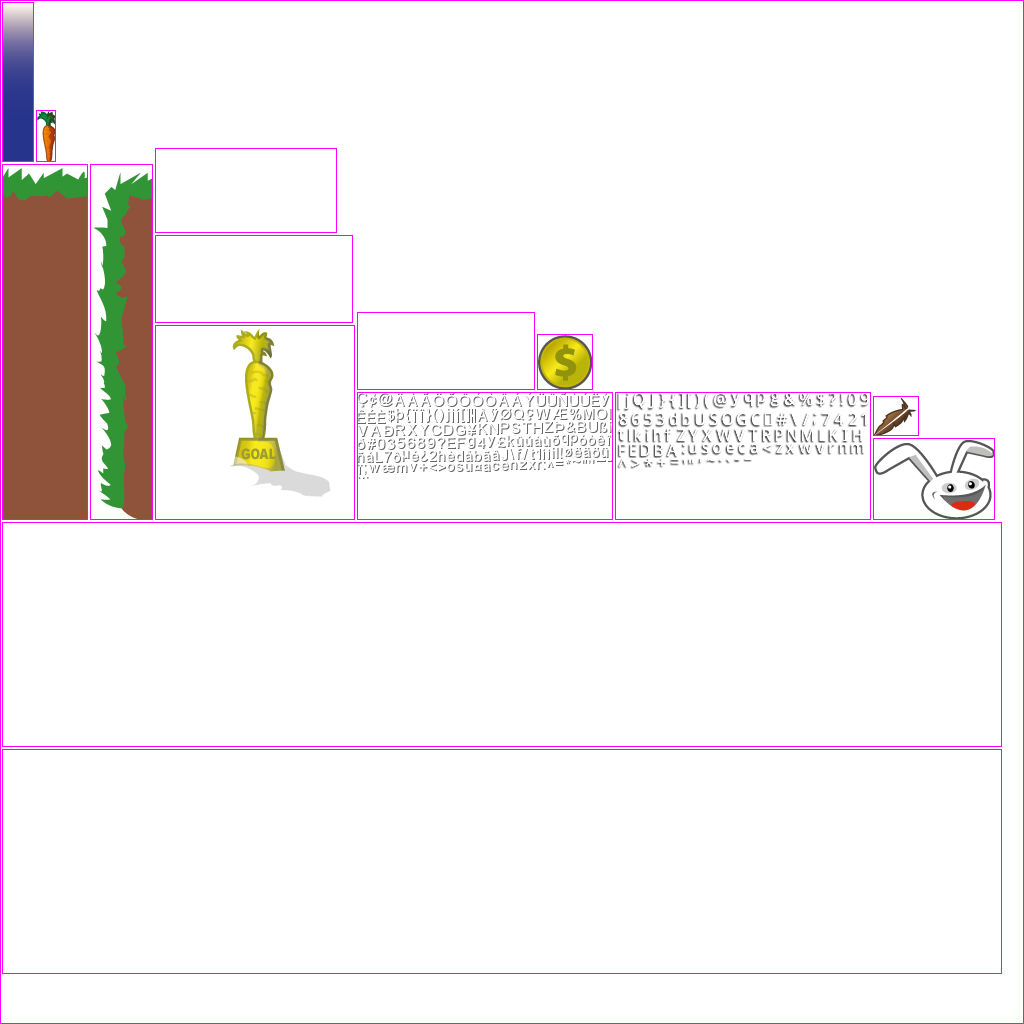
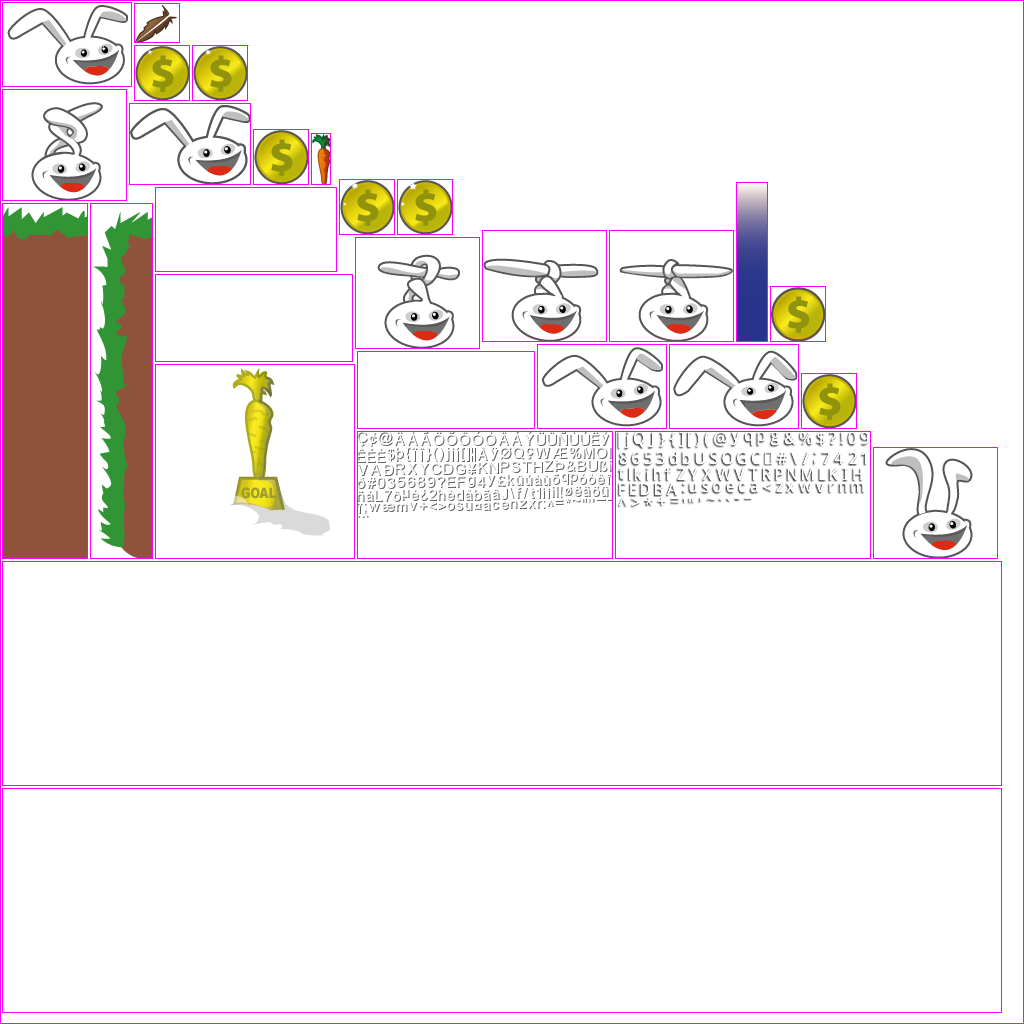
Assignment 12 - Part A
(Classes changed: AbstractGameObject, Assets, BunnyHead, GoldCoin, MenuScreen)
(Classes added: all of the image files for the animation)
(Classes removed: none)

Changed region(s): [[0.0, 0.0, 0.9688, 0.5625]]

diff --git a/core/src/screens/MenuScreen.java b/core/src/screens/MenuScreen.java
@@ -5,14 +5,18 @@ package screens;
  */
 import objects.Assets;
 import objects.AudioManager;
+import static com.badlogic.gdx.scenes.scene2d.actions.Actions.*;
 
 import com.badlogic.gdx.Game;
 import com.badlogic.gdx.Gdx;
 import com.badlogic.gdx.graphics.Color;
 import com.badlogic.gdx.graphics.GL20;
 import com.badlogic.gdx.graphics.g2d.TextureAtlas;
+import com.badlogic.gdx.math.Interpolation;
 import com.badlogic.gdx.scenes.scene2d.Actor;
 import com.badlogic.gdx.scenes.scene2d.Stage;
+import com.badlogic.gdx.scenes.scene2d.Touchable;
+import com.badlogic.gdx.scenes.scene2d.actions.SequenceAction;
 import com.badlogic.gdx.scenes.scene2d.ui.Button;
 import com.badlogic.gdx.scenes.scene2d.ui.CheckBox;
 import com.badlogic.gdx.scenes.scene2d.ui.Image;
@@ -127,11 +131,24 @@ public class MenuScreen extends AbstractGameScreen
 		// + Coins
 		imgCoins = new Image(skinCanyonBunny, "coins");
 		layer.addActor(imgCoins);
-		imgCoins.setPosition(135, 80);
+		imgCoins.setOrigin(imgCoins.getWidth() / 2, imgCoins.getHeight() / 2);
+		imgCoins.addAction(sequence(
+				moveTo(135, -20),
+				scaleTo(0, 0),
+				fadeOut(0),
+				delay(2.5f),
+				parallel(moveBy(0, 100, 0.5f, Interpolation.swingOut),
+						scaleTo(1.0f, 1.0f, 0.25f, Interpolation.linear),
+						alpha(1.0f, 0.5f))));
 		// + Bunny
 		imgBunny = new Image(skinCanyonBunny, "bunny");
 		layer.addActor(imgBunny);
-		imgBunny.setPosition(355, 40);
+		imgBunny.addAction(sequence(
+				moveTo(655, 510),
+				delay(4.0f),
+				moveBy(-70, -100, 0.5f, Interpolation.fade),
+				moveBy(-100, -50, 0.5f, Interpolation.fade),
+				moveBy(-150, -300, 1.0f, Interpolation.elasticIn)));
 		return layer;
 	}
 	
@@ -342,7 +359,7 @@ public class MenuScreen extends AbstractGameScreen
 		//Make options window slightly transparent
 		winOptions.setColor(1, 1, 1, 0.8f);
 		//Hide options window by default
-		winOptions.setVisible(false);
+		showOptionsWindow(false, false);
 		if(debugEnabled)
 		{
 			winOptions.debug();
@@ -368,9 +385,8 @@ public class MenuScreen extends AbstractGameScreen
 	private void onOptionsClicked()
 	{
 		loadSettings();
-		btnMenuPlay.setVisible(false);
-		btnMenuOptions.setVisible(false);
-		winOptions.setVisible(true);
+		showMenuButtons(false);
+		showOptionsWindow(true, true);
 	}
 	
 	/**
@@ -429,10 +445,58 @@ public class MenuScreen extends AbstractGameScreen
 	 */
 	private void onCancelClicked()
 	{
-		btnMenuPlay.setVisible(true);
-		btnMenuOptions.setVisible(true);
-		winOptions.setVisible(false);
+		showMenuButtons(true);
+		showOptionsWindow(false, true);
 		AudioManager.instance.onSettingsUpdated();
+	}
+	
+	/**
+	 * adds animations to the menu buttons.
+	 * @param visible
+	 */
+	private void showMenuButtons(boolean visible)
+	{
+		float moveDuration = 1.0f;
+		Interpolation moveEasing = Interpolation.swing;
+		float delayOptionsButton = 0.25f;
+		float moveX = 300 * (visible ? -1 : 1);
+		float moveY = 0 * (visible ? -1 : 1);
+		final Touchable touchEnabled = visible ? Touchable.enabled : Touchable.disabled;
+		btnMenuPlay.addAction(
+				moveBy(moveX, moveY, moveDuration, moveEasing));
+		btnMenuOptions.addAction(sequence(
+				delay(delayOptionsButton),
+				moveBy(moveX, moveY, moveDuration, moveEasing)));
+		
+		SequenceAction seq = sequence();
+		if(visible)
+		{
+			seq.addAction(delay(delayOptionsButton + moveDuration));
+			seq.addAction(run(new Runnable()
+			{
+				public void run()
+				{
+					btnMenuPlay.setTouchable(touchEnabled);
+					btnMenuOptions.setTouchable(touchEnabled);
+				}
+			}));
+		}
+		stage.addAction(seq);
+	}
+	
+	/**
+	 * add animation to the options window
+	 * @param visible
+	 * @param animated
+	 */
+	private void showOptionsWindow(boolean visible, boolean animated)
+	{
+		float alphaTo = visible ? 0.8f : 0.0f;
+		float duration = animated ? 1.0f : 0.0f;
+		Touchable touchEnabled = visible ? Touchable.enabled : Touchable.disabled;
+		winOptions.addAction(sequence(
+				touchable(touchEnabled),
+				alpha(alphaTo, duration)));
 	}
 	
 	/**

diff --git a/core/src/objects/BunnyHead.java b/core/src/objects/BunnyHead.java
@@ -4,6 +4,7 @@ import screens.GamePreferences;
 import screens.CharacterSkin;
 
 import com.badlogic.gdx.Gdx;
+import com.badlogic.gdx.graphics.g2d.Animation;
 import com.badlogic.gdx.graphics.g2d.ParticleEffect;
 import com.badlogic.gdx.graphics.g2d.SpriteBatch;
 import com.badlogic.gdx.graphics.g2d.TextureRegion;
@@ -24,6 +25,11 @@ public class BunnyHead extends AbstractGameObject
 	private final float JUMP_TIME_MAX = 0.3f;
 	private final float JUMP_TIME_MIN = 0.1f;
 	private final float JUMP_TIME_OFFSET_FLYING = JUMP_TIME_MAX - 0.018f;
+	
+	private Animation animNormal;
+	private Animation animCopterTransform;
+	private Animation animCopterTransformBack;
+	private Animation animCopterRotate;
 	
 	public enum VIEW_DIRECTION
 	{
@@ -62,7 +68,12 @@ public class BunnyHead extends AbstractGameObject
 	public void init()
 	{
 		dimension.set(1, 1);
-		regHead = Assets.instance.bunny.head;
+		
+		animNormal = Assets.instance.bunny.animNormal;
+		animCopterTransform = Assets.instance.bunny.animCopterTransform;
+		animCopterTransformBack = Assets.instance.bunny.animCopterTransformBack;
+		animCopterRotate = Assets.instance.bunny.animCopterRotate;
+		setAnimation(animNormal);
 		
 		//Center image on game object
 		origin.set(dimension.x / 2, dimension.y / 2);
@@ -166,6 +177,14 @@ public class BunnyHead extends AbstractGameObject
 		
 		if(timeLeftFeatherPowerup > 0)
 		{
+			if(animation == animCopterTransformBack)
+			{
+				//Restart "Transform" animation if another feather power-up
+				//was picked up during "TransformBack" animation. Otherwise,
+				//the "TransformBack" animation would be stuck while the 
+				//power-up is still active.
+				setAnimation(animCopterTransform);
+			}
 			timeLeftFeatherPowerup -= deltaTime;
 		}
 		
@@ -174,9 +193,41 @@ public class BunnyHead extends AbstractGameObject
 			//disable power-up
 			timeLeftFeatherPowerup = 0;
 			setFeatherPowerup(false);
+			setAnimation(animCopterTransformBack);
 		}
-		
 		dustParticles.update(deltaTime);
+		//Change animation state according to feather power-up
+		if(hasFeatherPowerup)
+		{
+			if(animation == animNormal)
+			{
+				setAnimation(animCopterTransform);
+			}
+			else if(animation == animCopterTransform)
+			{
+				if(animation.isAnimationFinished(stateTime))
+				{
+					setAnimation(animCopterRotate);
+				}
+			}
+		}
+		else
+		{
+			if(animation == animCopterRotate)
+			{
+				if(animation.isAnimationFinished(stateTime))
+				{
+					setAnimation(animCopterTransformBack);
+				}
+				else if(animation == animCopterTransformBack)
+				{
+					if(animation.isAnimationFinished(stateTime))
+					{
+						setAnimation(animNormal);
+					}
+				}
+			}
+		}
 	}
 	
 	/**
@@ -234,16 +285,18 @@ public class BunnyHead extends AbstractGameObject
 		//Apply Skin Color
 		batch.setColor(CharacterSkin.values()[GamePreferences.instance.charSkin].getColor());
 		
-		//Set special color when game object has a feather power-up
-		if(hasFeatherPowerup)
+		float dimCorrectionX = 0;
+		float dimCorrectionY = 0;
+		if(animation != animNormal)
 		{
-			batch.setColor(1.0f, 0.8f, 0.0f, 1.0f);
+			dimCorrectionX = 0.05f;
+			dimCorrectionY = 0.2f;
 		}
 		
 		//Draw image
-		reg = regHead;
+		reg = animation.getKeyFrame(stateTime, true);
 		batch.draw(reg.getTexture(), position.x, position.y, origin.x, origin.y,
-				dimension.x, dimension.y, scale.x, scale.y, rotation, reg.getRegionX(),
+				dimension.x + dimCorrectionX, dimension.y + dimCorrectionY, scale.x, scale.y, rotation, reg.getRegionX(),
 				reg.getRegionY(), reg.getRegionWidth(), reg.getRegionHeight(),
 				viewDirection == VIEW_DIRECTION.LEFT, false);
 		

diff --git a/core/src/objects/Assets.java b/core/src/objects/Assets.java
@@ -8,9 +8,11 @@ import com.badlogic.gdx.audio.Music;
 import com.badlogic.gdx.audio.Sound;
 import com.badlogic.gdx.graphics.Texture;
 import com.badlogic.gdx.graphics.Texture.TextureFilter;
+import com.badlogic.gdx.graphics.g2d.Animation;
 import com.badlogic.gdx.graphics.g2d.BitmapFont;
 import com.badlogic.gdx.graphics.g2d.TextureAtlas;
 import com.badlogic.gdx.graphics.g2d.TextureAtlas.AtlasRegion;
+import com.badlogic.gdx.utils.Array;
 import com.badlogic.gdx.utils.Disposable;
 import com.lobiancogdx.game.Constants;
 
@@ -121,10 +123,34 @@ public class Assets implements Disposable, AssetErrorListener
 	public class AssetBunny
 	{
 		public final AtlasRegion head;
+		public Animation animNormal;
+		public Animation animCopterTransform;
+		public Animation animCopterTransformBack;
+		public Animation animCopterRotate;
 		
 		public AssetBunny(TextureAtlas atlas)
 		{
 			head = atlas.findRegion("bunny_head");
+			
+			Array<AtlasRegion> regions = null;
+			AtlasRegion region = null;
+			//Animation: Bunny Normal
+			regions = atlas.findRegions("anim_bunny_normal");
+			animNormal = new Animation(1.0f / 10.0f, regions, Animation.PlayMode.LOOP_PINGPONG);
+			
+			//Animation: Bunny Copter - knot ears
+			regions = atlas.findRegions("anim_bunny_copter");
+			animCopterTransform = new Animation(1.0f / 10.0f, regions);
+			
+			//Animation: Bunny Copter - unknot ears
+			regions = atlas.findRegions("anim_bunny_copter");
+			animCopterTransformBack = new Animation(1.0f / 10.0f, regions, Animation.PlayMode.REVERSED);
+			
+			//Animation: Bunny Copter - rotate ears
+			regions = new Array<AtlasRegion>();
+			regions.add(atlas.findRegion("anim_bunny_copter", 4));
+			regions.add(atlas.findRegion("anim_bunny_copter", 5));
+			animCopterRotate = new Animation(1.0f / 15.0f, regions);
 		}
 	}
 	
@@ -149,10 +175,20 @@ public class Assets implements Disposable, AssetErrorListener
 	public class AssetGoldCoin
 	{
 		public final AtlasRegion goldCoin;
+		public Animation animGoldCoin;
 		
 		public AssetGoldCoin(TextureAtlas atlas)
 		{
 			goldCoin = atlas.findRegion("item_gold_coin");
+			
+			//Animation: Gold Coin
+			Array<AtlasRegion> regions = atlas.findRegions("anim_gold_coin");
+			AtlasRegion region = regions.first();
+			for(int i = 0; i < 10; i++)
+			{
+				regions.insert(0, region);
+				animGoldCoin = new Animation(1.0f / 20.0f, regions, Animation.PlayMode.LOOP_PINGPONG);
+			}
 		}
 	}
 	

diff --git a/core/src/objects/AbstractGameObject.java b/core/src/objects/AbstractGameObject.java
@@ -4,6 +4,7 @@ package objects;
  * values and methods a game object will need.
  * @author Jason LoBianco
  */
+import com.badlogic.gdx.graphics.g2d.Animation;
 import com.badlogic.gdx.graphics.g2d.SpriteBatch;
 import com.badlogic.gdx.math.MathUtils;
 import com.badlogic.gdx.math.Rectangle;
@@ -24,6 +25,9 @@ public abstract class AbstractGameObject
 	public Vector2 acceleration;
 	public Rectangle bounds;
 	public Body body;
+	
+	public float stateTime;
+	public Animation animation;
 	
 	/**
 	 * Creates an AbstractGameObject with starting values.
@@ -48,6 +52,7 @@ public abstract class AbstractGameObject
 	 */
 	public void update(float deltaTime)
 	{
+		stateTime += deltaTime;
 		if(body == null)
 		{
 			updateMotionX(deltaTime);
@@ -118,5 +123,15 @@ public abstract class AbstractGameObject
 		//Make sure the object's velocity does not exceed the
 		//positive or negative terminal velocity
 		velocity.y = MathUtils.clamp(velocity.y, -terminalVelocity.y, terminalVelocity.y);
+	}
+	
+	/**
+	 * sets an animation
+	 * @param animation
+	 */
+	public void setAnimation(Animation animation)
+	{
+		this.animation = animation;
+		stateTime = 0;
 	}
 }

diff --git a/core/src/objects/GoldCoin.java b/core/src/objects/GoldCoin.java
@@ -6,6 +6,7 @@ package objects;
  */
 import com.badlogic.gdx.graphics.g2d.SpriteBatch;
 import com.badlogic.gdx.graphics.g2d.TextureRegion;
+import com.badlogic.gdx.math.MathUtils;
 
 public class GoldCoin extends AbstractGameObject
 {
@@ -27,7 +28,9 @@ public class GoldCoin extends AbstractGameObject
 	private void init()
 	{
 		dimension.set(0.5f, 0.5f);
-		regGoldCoin = Assets.instance.goldCoin.goldCoin;
+		
+		setAnimation(Assets.instance.goldCoin.animGoldCoin);
+		stateTime = MathUtils.random(0.0f, 1.0f);
 		
 		//Set bounding box for collision detection
 		bounds.set(0, 0, dimension.x, dimension.y);
@@ -43,7 +46,7 @@ public class GoldCoin extends AbstractGameObject
 		if(collected) return;
 		
 		TextureRegion reg = null;
-		reg = regGoldCoin;
+		reg = animation.getKeyFrame(stateTime, true);
 		batch.draw(reg.getTexture(), position.x, position.y, origin.x, origin.y,
 				dimension.x, dimension.y, scale.x, scale.y, rotation, reg.getRegionX(),
 				reg.getRegionY(), reg.getRegionWidth(), reg.getRegionHeight(), false, false);
